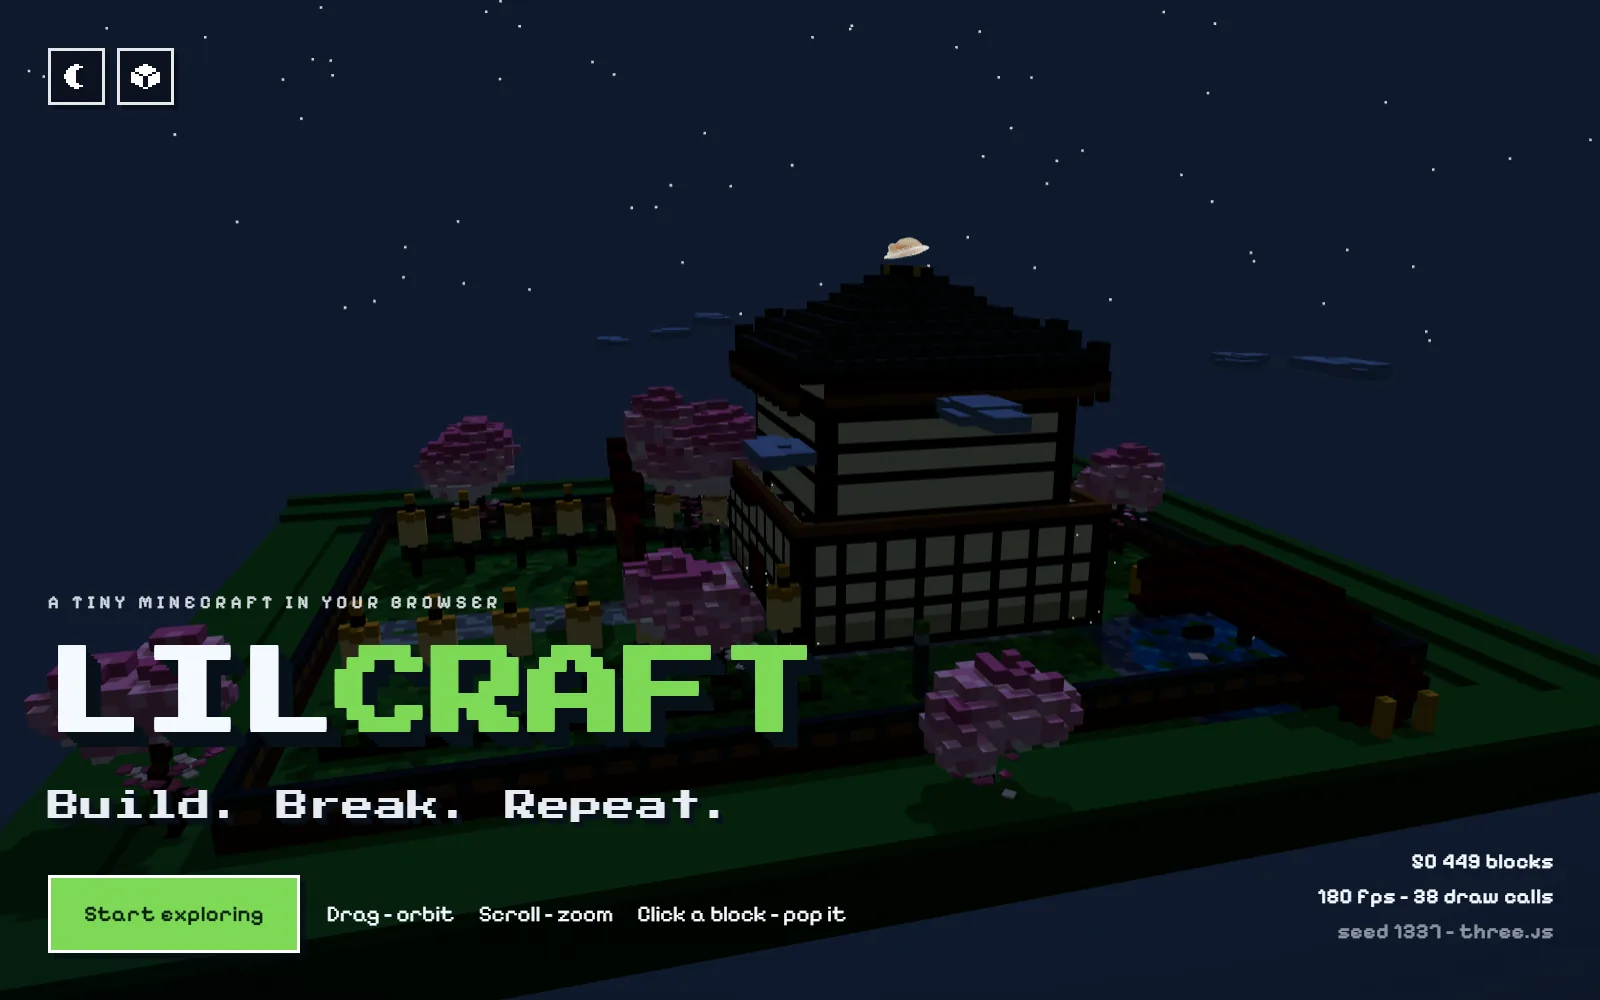
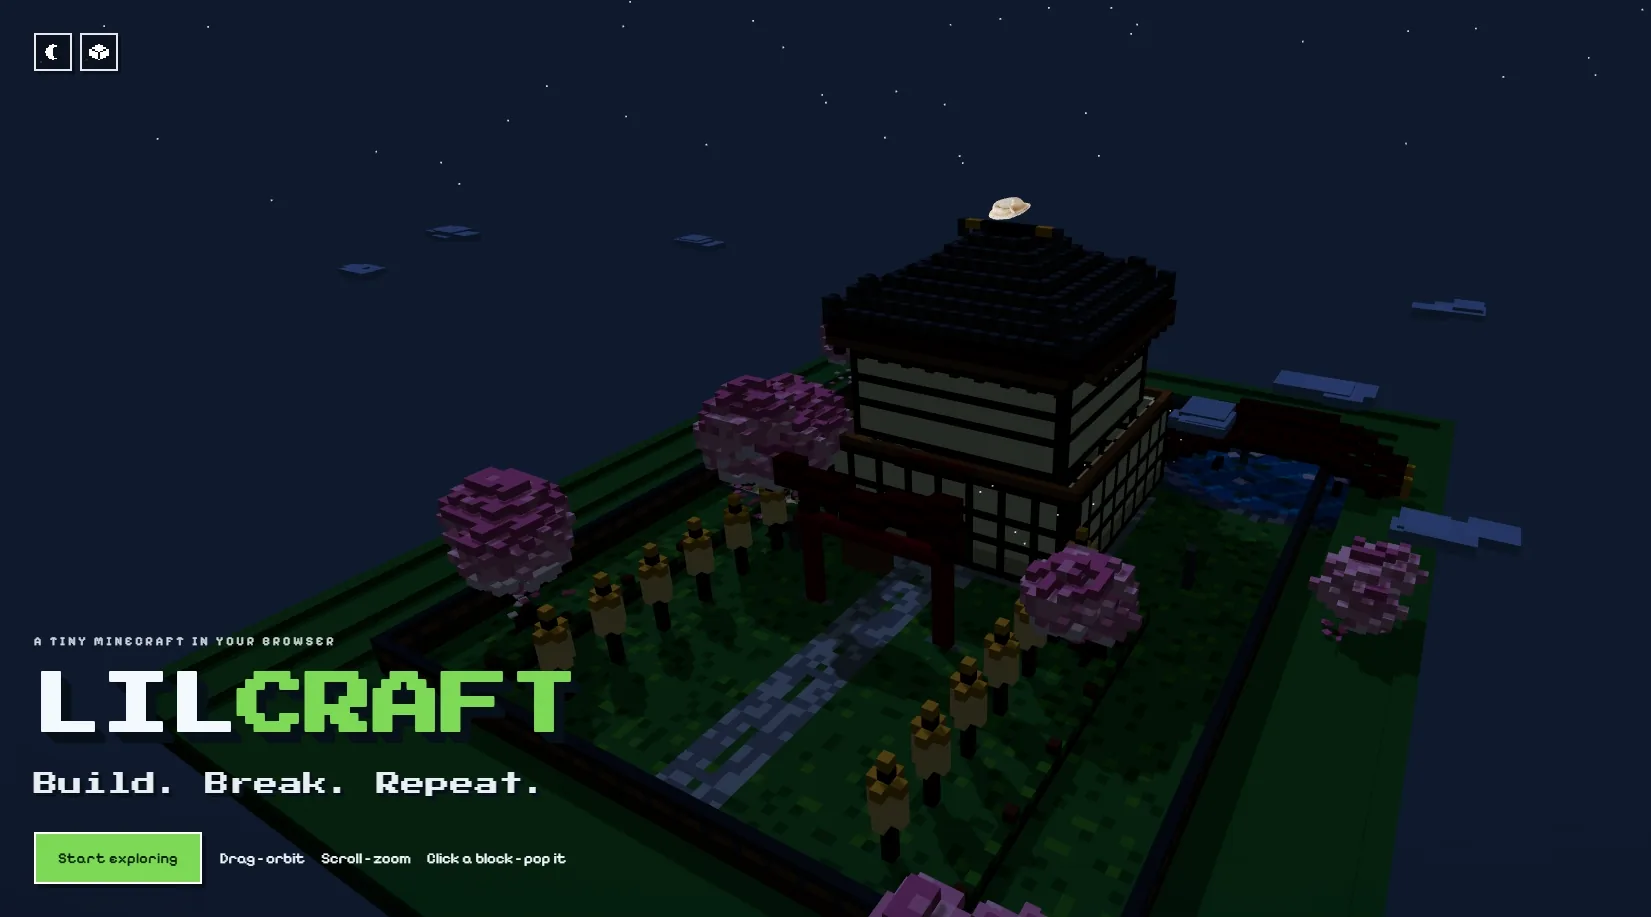
Update lilcraft preview

diff --git a/index.html b/index.html
@@ -59,5 +59,5 @@
 <footer class="ftr"><div class="wrap ftr__in"><span>© <span id="year">2026</span> Дмитрий О.</span><button class="totop" id="totop" type="button">↑ TOP</button></div></footer>
 <div class="lb" id="lb" role="dialog" aria-modal="true" aria-label="Просмотр проекта" hidden><div class="lb__back" data-lb-close></div><button class="lb__x" type="button" aria-label="Закрыть" data-lb-close>×</button><button class="lb__nav lb__nav--prev" type="button" aria-label="Предыдущий проект" id="lbPrev">←</button><button class="lb__nav lb__nav--next" type="button" aria-label="Следующий проект" id="lbNext">→</button><figure class="lb__fig"><div class="lb__media"><img id="lbImg" alt=""><video id="lbVid" hidden muted loop playsinline controls></video></div><div class="lb__shots" id="lbShots" hidden></div><figcaption class="lb__cap"><div><span class="lb__label">PROJECT / PREVIEW</span><h3 id="lbTitle"></h3><p id="lbDesc"></p></div><a class="btn btn--primary lb__go" id="lbGo" href="#" target="_blank" rel="noopener"><span id="lbGoTxt">Открыть</span> ↗</a></figcaption></figure></div>
 <div class="demo" id="demo" role="dialog" aria-modal="true" aria-label="Демо проекта" hidden><div class="demo__back" data-demo-close></div><div class="demo__ui"><span class="demo__name" id="demoTitle"></span><a class="demo__ext" id="demoExt" href="#" target="_blank" rel="noopener">Открыть ↗</a><button class="demo__x" type="button" aria-label="Закрыть" data-demo-close>×</button></div><div class="demo__mon" id="demoMon"><div class="demo__bezel"><div class="demo__screen" id="demoScreen"><p class="demo__fail" id="demoFail" hidden>Демо не загрузилось. <a id="demoFailLink" href="#" target="_blank">Открыть в новой вкладке</a>.</p></div><span class="demo__led"></span></div><div class="demo__stand"></div></div></div>
-<script src="assets/data/projects.js?v=20261112d"></script><script src="assets/js/app.js"></script>
+<script src="assets/data/projects.js?v=20261112e"></script><script src="assets/js/app.js"></script>
 </body></html>

diff --git a/assets/data/projects.js b/assets/data/projects.js
@@ -318,7 +318,10 @@ window.PROJECTS = [
     tags: ['three.js', 'WebGL', 'Voxel', 'Web'],
     year: '2026',
     status: 'live',
-    shot: 'assets/img/projects/lilcraft.webp',
+    // 2026-11-12: превью заменено на присланный автором кадр (hero с LILCRAFT
+    // и пельменем над крышей). ?v= сбрасывает кеш картинки: у Pages
+    // max-age=600, без смены URL браузер держит старый кадр десять минут.
+    shot: 'assets/img/projects/lilcraft.webp?v=20261112e',
     links: { demo: '/games/lilcraft/', demoLabel: 'Demo', demoEmbed: true, repo: '' }
   },
   // 2026-11-12: SPLITTER скрыт из сетки по просьбе автора (вслед за VDIE).

diff --git a/tools/smoke.js b/tools/smoke.js
@@ -473,7 +473,8 @@ for (const g of ['deddemo', 'bubblepeaks']) {
 // Все превью, указанные в данных, существуют
 P.forEach(p => {
   if (!p.shot) return;
-  const ok = fs.existsSync(path.join(root, p.shot));
+  // shot может нести ?v= для сброса кеша картинки - на диске это тот же файл.
+  const ok = fs.existsSync(path.join(root, p.shot.split('?')[0]));
   if (!ok) bad++;
   console.log((ok ? 'OK   ' : 'FAIL ') + 'превью из данных: ' + p.shot);
 });
